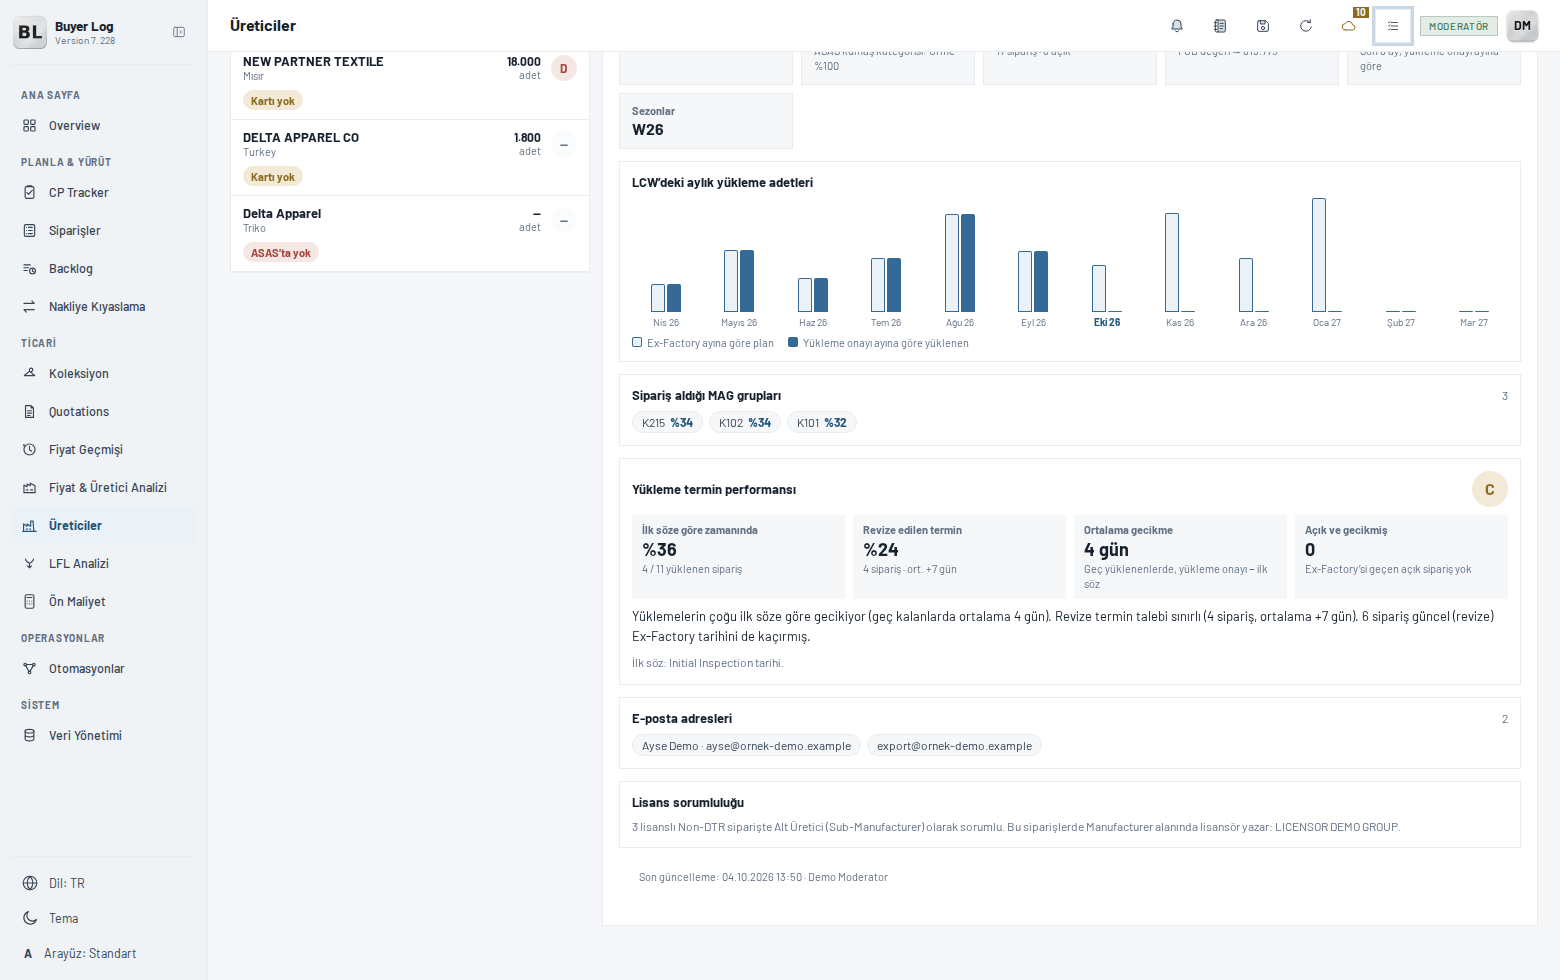
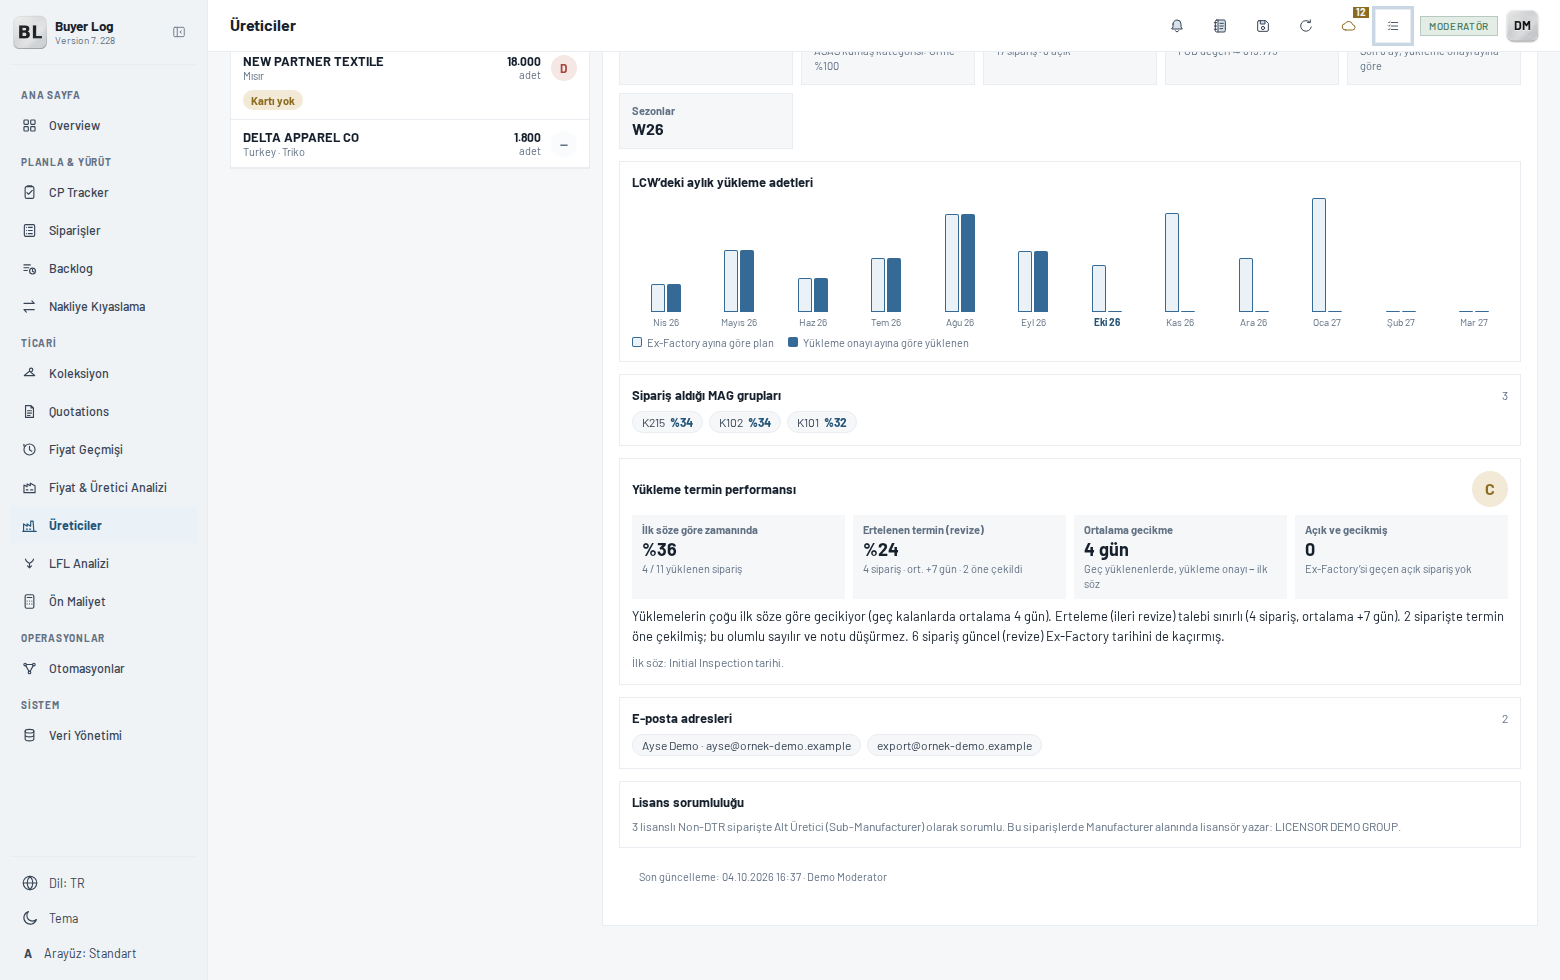
Termin performansı: Initial Inspection Geçme Tarih bağlantısı, öne çekme cezasız
- ASAS kataloğundaki ilk söz alanı modeldeki gerçek adla eşlenir
  ("Initial Inspection Geçme Tarih"; Ay/Hafta türevleri yerine tarih sütunu).
  Mevcut ASAS bağlantılarına bir kez şema taramasıyla eklenir; şema
  okunamazsa yenileme durmaz.
- Yalnız ileri kayma (erteleme) revize sayılır; öne çekme ayrıca gösterilir
  ve notu düşürmez.

Claude-Session: https://claude.ai/code/session_01XoVDSom36jpCsbHqN3KyRa

diff --git a/resources/app/public/manufacturers.js b/resources/app/public/manufacturers.js
@@ -219,9 +219,10 @@
     }
     if (perf.revisionRate != null && perf.revised) {
       parts.push(perf.revisionRate >= 0.3
-        ? T(`Siparişlerin ${pct(perf.revisionRate)}’inde termin revize edilmiş (ortalama +${perf.avgRevisionDays} gün): doğrudan gecikme olmasa da ilk söze sadakat düşük.`, `${pct(perf.revisionRate)} of orders had their date revised (+${perf.avgRevisionDays} days on average): even without direct delay, the first promise is often not kept.`)
-        : T(`Revize termin talebi sınırlı (${perf.revised} sipariş, ortalama +${perf.avgRevisionDays} gün).`, `Revised date requests are limited (${perf.revised} orders, +${perf.avgRevisionDays} days on average).`));
+        ? T(`Siparişlerin ${pct(perf.revisionRate)}’inde termin ileri revize edilmiş, yani ertelenmiş (ortalama +${perf.avgRevisionDays} gün): doğrudan gecikme olmasa da ilk söze sadakat düşük.`, `${pct(perf.revisionRate)} of orders had their date revised (+${perf.avgRevisionDays} days on average): even without direct delay, the first promise is often not kept.`)
+        : T(`Erteleme (ileri revize) talebi sınırlı (${perf.revised} sipariş, ortalama +${perf.avgRevisionDays} gün).`, `Revised date requests are limited (${perf.revised} orders, +${perf.avgRevisionDays} days on average).`));
     }
+    if (perf.pulledForward) parts.push(T(`${perf.pulledForward} siparişte termin öne çekilmiş; bu olumlu sayılır ve notu düşürmez.`, `${perf.pulledForward} orders had their date pulled forward; this counts as positive and does not lower the grade.`));
     if (perf.lateVsExFactory) parts.push(T(`${perf.lateVsExFactory} sipariş güncel (revize) Ex-Factory tarihini de kaçırmış.`, `${perf.lateVsExFactory} orders also missed the current (revised) Ex-Factory date.`));
     if (perf.openOverdue) parts.push(T(`${perf.openOverdue} açık siparişin Ex-Factory tarihi geçti ve yükleme onayı yok (ortalama ${perf.avgOpenOverdueDays} gün).`, `${perf.openOverdue} open orders are past Ex-Factory with no loading approval (${perf.avgOpenOverdueDays} days on average).`));
     return parts.join(' ');
@@ -237,7 +238,7 @@
       <div class="mfpPanelHead"><strong>${esc(T('Yükleme termin performansı', 'Shipment delivery performance'))}</strong>${gradeBadge(perf, true)}</div>
       <div class="mfpMetrics">
         ${metric(T('İlk söze göre zamanında', 'On time vs first promise'), esc(pct(perf.onTimeRate)), T(`${nf(perf.onTime)} / ${nf(perf.loaded)} yüklenen sipariş`, `${nf(perf.onTime)} / ${nf(perf.loaded)} shipped orders`))}
-        ${metric(T('Revize edilen termin', 'Revised dates'), esc(pct(perf.revisionRate)), perf.revised ? T(`${nf(perf.revised)} sipariş · ort. +${perf.avgRevisionDays} gün`, `${nf(perf.revised)} orders · avg +${perf.avgRevisionDays} days`) : T('Revize yok', 'No revisions'))}
+        ${metric(T('Ertelenen termin (revize)', 'Postponed dates (revised)'), esc(pct(perf.revisionRate)), [perf.revised ? T(`${nf(perf.revised)} sipariş · ort. +${perf.avgRevisionDays} gün`, `${nf(perf.revised)} orders · avg +${perf.avgRevisionDays} days`) : T('Erteleme yok', 'No postponements'), perf.pulledForward ? T(`${nf(perf.pulledForward)} öne çekildi`, `${nf(perf.pulledForward)} pulled forward`) : ''].filter(Boolean).join(' · '))}
         ${metric(T('Ortalama gecikme', 'Average delay'), perf.avgDelayDays ? esc(T(`${perf.avgDelayDays} gün`, `${perf.avgDelayDays} days`)) : '—', T('Geç yüklenenlerde, yükleme onayı − ilk söz', 'For late shipments, loading approval − first promise'))}
         ${metric(T('Açık ve gecikmiş', 'Open and overdue'), esc(nf(perf.openOverdue)), perf.openOverdue ? T(`ort. ${perf.avgOpenOverdueDays} gün`, `avg ${perf.avgOpenOverdueDays} days`) : T('Ex-Factory’si geçen açık sipariş yok', 'No open order past Ex-Factory'))}
       </div>

diff --git a/resources/app/server/lib/model-refresh.js b/resources/app/server/lib/model-refresh.js
@@ -331,11 +331,17 @@ async function ensureConnectionMapping(item, options = {}) {
   // alanı bulursak mevcut eşlemeye ekler ve kalıcı bağlantıya kaydederiz.
   const enhancementFields = role === 'asas' ? ['Teknik Resim', 'Ürün Tanım'] : [];
   const mappingEnhancementScanVersion = Math.max(0, Number(item && item.mappingEnhancementScanVersion) || 0);
-  const missingEnhancements = mappingEnhancementScanVersion < 1
-    ? enhancementFields.filter(header => !normalized.mapping[header]) : [];
+  // v3: üretici kartı termin performansı için Initial Inspection Geçme Tarih
+  // (ilk ex-factory sözü) mevcut ASAS bağlantılarına bir kez taranıp eklenir.
+  const INITIAL_INSPECTION = 'Initial Inspection Geçme Tarih';
+  const missingEnhancements = (mappingEnhancementScanVersion < 1
+    ? enhancementFields.filter(header => !normalized.mapping[header]) : [])
+    .concat(role === 'asas' && mappingEnhancementScanVersion < 3 && !normalized.mapping[INITIAL_INSPECTION] ? [INITIAL_INSPECTION] : []);
   const productDescriptionRepairNeeded = role === 'asas' && modelFields.productDescriptionNeedsRepair(normalized.mapping);
   const brokenManualQuery = item && item.mode === 'manual' && /\[object Object\]/i.test(String(item.query || ''));
   const needsRepair = normalized.invalidHeaders.length > 0 || missingBefore.length > 0 || missingEnhancements.length > 0 || productDescriptionRepairNeeded || brokenManualQuery;
+  const softEnhancementOnly = needsRepair && !normalized.invalidHeaders.length && !missingBefore.length && !productDescriptionRepairNeeded && !brokenManualQuery
+    && missingEnhancements.every(header => header === INITIAL_INSPECTION);
 
   // Eşleme "eksiksiz" olsa bile kimlik alanları yanlış sütuna bağlanmış olabilir;
   // bu durumda sorgu sorunsuz çalışır ama hiçbir satır birebir eşleşmez.
@@ -376,6 +382,14 @@ async function ensureConnectionMapping(item, options = {}) {
     }, options.queryOptions || {});
   } catch (err) {
     if (telemetry) telemetry({ type:'end', category:'query', connection:connectionLabel(item), operation:'schema-discovery', timestampMs:Date.now(), durationMs:Date.now() - schemaStartedMs, error:String(err && err.message || err) });
+    /* Yalnız isteğe bağlı Initial Inspection taraması için şema okunamadıysa
+       yenileme DURMAZ: eşleme olduğu gibi kullanılır, tarama bir daha denenmez
+       (alan Veri Yönetimi'nden elle eşlenebilir). */
+    if (softEnhancementOnly) {
+      item.mapping = normalized.mapping;
+      item.mappingEnhancementScanVersion = Math.max(3, Number(item.mappingEnhancementScanVersion) || 0);
+      return { repaired: false, mapping: item.mapping, warnings: suspectWarnings };
+    }
     throw new ModelRefreshError(
       `${connectionLabel(item)} alan eşlemesi bozuk veya eksik ve model şeması otomatik okunamadı: ${String(err && err.message || err)}`,
       'MODEL_REFRESH_MAPPING_REPAIR_FAILED', 502,
@@ -399,7 +413,8 @@ async function ensureConnectionMapping(item, options = {}) {
   item.mapping = repairedMapping;
   const productDescriptionRepaired = productDescriptionRepairNeeded
     && modelFields.fieldKey(repairedMapping['Ürün Tanım'] && repairedMapping['Ürün Tanım'].name) === modelFields.fieldKey('Ürün Ana Tanım');
-  if (missingEnhancements.length) item.mappingEnhancementScanVersion = 1;
+  if (missingEnhancements.length) item.mappingEnhancementScanVersion = Math.max(1, Number(item.mappingEnhancementScanVersion) || 0);
+  if (missingEnhancements.includes(INITIAL_INSPECTION)) item.mappingEnhancementScanVersion = Math.max(3, Number(item.mappingEnhancementScanVersion) || 0);
   if (productDescriptionRepaired) item.mappingEnhancementScanVersion = Math.max(2, Number(item.mappingEnhancementScanVersion) || 0);
   if (brokenManualQuery) {
     item.mode = 'auto';

diff --git a/resources/app/public/manufacturer-cards-engine.js b/resources/app/public/manufacturer-cards-engine.js
@@ -218,8 +218,14 @@
     const approval = dayValue(pick(row, KEYS.loadingApproval));
     const initial = inspection != null ? inspection : (asasEx != null ? asasEx : null);
     const baseline = inspection != null ? 'initialInspection' : (asasEx != null ? 'asasExFactory' : '');
-    const out = { initial, exFactory, approval, baseline, revised: false, revisionDays: 0, delayDays: null, delayVsExFactory: null, openOverdueDays: null };
-    if (initial != null && exFactory != null && exFactory !== initial) { out.revised = true; out.revisionDays = Math.round((exFactory - initial) / DAY); }
+    const out = { initial, exFactory, approval, baseline, revised: false, pulledForward: false, revisionDays: 0, delayDays: null, delayVsExFactory: null, openOverdueDays: null };
+    /* Yalnız İLERİ kayma (onaylanmış erteleme talebi) revize sayılır. Tarihin
+       öne çekilmesi üreticinin erken yükleme sözüdür; cezalandırılmaz, ayrıca
+       sayılır (kullanıcı kararı). */
+    if (initial != null && exFactory != null && exFactory !== initial) {
+      out.revisionDays = Math.round((exFactory - initial) / DAY);
+      if (out.revisionDays > 0) out.revised = true; else out.pulledForward = true;
+    }
     if (approval != null) {
       if (initial != null) out.delayDays = Math.round((approval - initial) / DAY);
       if (exFactory != null) out.delayVsExFactory = Math.round((approval - exFactory) / DAY);
@@ -229,13 +235,14 @@
     return out;
   }
   function emptyPerformance() {
-    return { measured: 0, revised: 0, revisionDaysTotal: 0, loaded: 0, onTime: 0, delayDaysTotal: 0, lateVsExFactory: 0, openOverdue: 0, openOverdueDaysTotal: 0, baselines: { initialInspection: 0, asasExFactory: 0 } };
+    return { measured: 0, revised: 0, pulledForward: 0, revisionDaysTotal: 0, loaded: 0, onTime: 0, delayDaysTotal: 0, lateVsExFactory: 0, openOverdue: 0, openOverdueDaysTotal: 0, baselines: { initialInspection: 0, asasExFactory: 0 } };
   }
   function addPerformance(perf, delivery) {
     if (delivery.initial != null) {
       perf.measured += 1;
       perf.baselines[delivery.baseline] = (perf.baselines[delivery.baseline] || 0) + 1;
-      if (delivery.revised) { perf.revised += 1; perf.revisionDaysTotal += Math.max(0, delivery.revisionDays); }
+      if (delivery.revised) { perf.revised += 1; perf.revisionDaysTotal += delivery.revisionDays; }
+      if (delivery.pulledForward) perf.pulledForward += 1;
     }
     if (delivery.delayDays != null) {
       perf.loaded += 1;
@@ -251,7 +258,7 @@
     const revisionRate = ratio(perf.revised, perf.measured);
     const lateCount = perf.loaded - perf.onTime;
     const out = {
-      measured: perf.measured, revised: perf.revised, loaded: perf.loaded, onTime: perf.onTime,
+      measured: perf.measured, revised: perf.revised, pulledForward: perf.pulledForward, loaded: perf.loaded, onTime: perf.onTime,
       lateVsExFactory: perf.lateVsExFactory, openOverdue: perf.openOverdue,
       onTimeRate, revisionRate,
       avgRevisionDays: perf.revised ? Math.round(perf.revisionDaysTotal / perf.revised) : 0,

diff --git a/resources/app/tests/manufacturers-page-v20261004.test.js b/resources/app/tests/manufacturers-page-v20261004.test.js
@@ -89,3 +89,21 @@ test('store keeps aliases, creates ASAS cards without overwriting and links with
     fs.rmSync(root, { recursive: true, force: true });
   }
 });
+
+test('existing ASAS connections pick up Initial Inspection Geçme Tarih once, without breaking refresh', async () => {
+  const modelFields = require('../server/lib/model-fields');
+  const { ensureConnectionMapping } = require('../server/lib/model-refresh');
+  const required = modelFields.fieldsForRole('asas').filter(field => field.required);
+  const base = () => Object.fromEntries(required.map(field => [field.header, { table: 'ASAS', name: field.header, kind: 'column' }]));
+  const columns = [...required.map(field => field.header), 'Ürün Tanım', 'Initial Inspection Geçme Merch Ay', 'Initial Inspection Geçme Merch Hafta', 'Initial Inspection Geçme Tarih', 'Initial Inspection Geçme Tarih Gün Ay Yıl']
+    .map(name => ({ table: 'ASAS', name, kind: 'column' }));
+  const item = { role: 'asas', name: 'ASAS', server: 'db', catalog: 'c', mapping: { ...base(), 'Ürün Tanım': { table: 'ASAS', name: 'Ürün Tanım', kind: 'column' } }, mappingEnhancementScanVersion: 2, horizon: { table: 'ASAS' } };
+  const result = await ensureConnectionMapping(item, { discoverSchema: async () => ({ columns, measures: [] }) });
+  assert.equal(result.mapping['Initial Inspection Geçme Tarih'].name, 'Initial Inspection Geçme Tarih');
+  assert.equal(item.mappingEnhancementScanVersion, 3);
+  // Şema okunamazsa yenileme durmaz ve tarama tekrar denenmez.
+  const offline = { role: 'asas', name: 'ASAS', server: 'db', catalog: 'c', mapping: { ...base(), 'Ürün Tanım': { table: 'ASAS', name: 'Ürün Ana Tanım', kind: 'column' } }, mappingEnhancementScanVersion: 2, horizon: { table: 'ASAS' } };
+  const soft = await ensureConnectionMapping(offline, { discoverSchema: async () => { throw new Error('offline'); } });
+  assert.equal(soft.repaired, false);
+  assert.equal(offline.mappingEnhancementScanVersion, 3);
+});

diff --git a/resources/app/tests/manufacturer-cards-engine.test.js b/resources/app/tests/manufacturer-cards-engine.test.js
@@ -116,3 +116,18 @@ test('automation split routes each order to its responsible manufacturer card', 
   assert.equal(engine.isManufacturerField('Manufacturer'), true);
   assert.equal(engine.isManufacturerField('Sub-Manufacturer'), false);
 });
+
+test('a date pulled forward is not a revision and does not lower the grade', () => {
+  const today = Date.UTC(2026, 5, 1);
+  const forward = engine.rowDelivery({ _isActive: false, 'Initial Inspection': '2026-01-15', 'Ex-factory': '2026-01-10', 'Buying Son Onay Tarihi': '2026-01-10' }, today);
+  assert.equal(forward.revised, false);
+  assert.equal(forward.pulledForward, true);
+  assert.equal(forward.revisionDays, -5);
+  const rows = [1, 2, 3].map(i => ({ Manufacturer: 'F', 'Order Code': `F${i}`, 'Order Quantity': 10, _isActive: false,
+    'Initial Inspection': '2026-01-15', 'Ex-factory': '2026-01-10', 'Buying Son Onay Tarihi': '2026-01-10' }));
+  const perf = engine.buildCards(rows, [], { today: '2026-06-01' }).cards[0].performance;
+  assert.equal(perf.revised, 0);
+  assert.equal(perf.pulledForward, 3);
+  assert.equal(perf.revisionRate, 0);
+  assert.equal(perf.grade, 'A');
+});

diff --git a/resources/app/server/lib/model-fields.js b/resources/app/server/lib/model-fields.js
@@ -62,7 +62,10 @@ const FIELD_CATALOGUE = {
     // v7.0.229 — Üretici kartı termin performansı: PO açılırken verilen ilk
     // ex-factory sözü. İsteğe bağlıdır; eşlenmezse ASAS'ın ilk ex-factory
     // değeri temel alınır.
-    { header: 'Initial Inspection Tarih', aliases: ['INITIAL INSPECTION', 'INITIAL INSPECTION DATE', 'INITIAL INSPECTION TARIHI', 'ILK INSPECTION TARIHI'] },
+    // ASAS modelindeki gerçek ad "Initial Inspection Geçme Tarih"tir (CP'de
+    // "Original Ex-F."). Ay/Hafta türevleri aynı öneki taşır; birebir ad önce
+    // eşlendiği için tarih sütunu seçilir.
+    { header: 'Initial Inspection Geçme Tarih', aliases: ['INITIAL INSPECTION GECME TARIH', 'INITIAL INSPECTION DATE', 'INITIAL INSPECTION TARIHI'] },
     { header: 'Buyer', aliases: ['SATIN ALMACI'] },
     { header: 'Line', aliases: ['URUN GRUBU', 'PRODUCT LINE'] },
     // Kumaş bilgileri artık ayrı bir Fabric bağlantısından değil aynı ASAS sorgusundan

diff --git a/resources/app/server/lib/parse.js b/resources/app/server/lib/parse.js
@@ -1028,8 +1028,8 @@ function parseASASMatrix(rows, ruleValue) {
     ['Buying Son Onay Tarihi'],
     [['BUYING','SON','ONAY','TARIH'], ['BUYING','APPROVAL','DATE'], ['SON','ONAY','TARIH']]);
   const initialInspectionHeader = resolveHeader(
-    ['Initial Inspection Tarih', 'Initial Inspection Tarihi', 'Initial Inspection'],
-    [['INITIAL','INSPECTION'], ['ILK','INSPECTION'], ['INITIAL','INSPEKSIYON']]);
+    ['Initial Inspection Geçme Tarih', 'Initial Inspection Tarih', 'Initial Inspection Tarihi', 'Initial Inspection'],
+    [['INITIAL','INSPECTION','GECME','TARIH'], ['INITIAL','INSPECTION','TARIH'], ['INITIAL','INSPECTION','DATE']]);
   const technicalImageHeader = resolveHeader(
     ['Teknik Görsel', 'Teknik Resim'],
     [['TEKNIK','GORSEL'], ['TEKNIK','RESIM'], ['TECHNICAL','IMAGE'], ['TECHNICAL','PICTURE']]);

diff --git a/resources/app/tests/lfl-product-description-asas-v828.test.js b/resources/app/tests/lfl-product-description-asas-v828.test.js
@@ -67,5 +67,6 @@ test('mevcut eski ASAS mappingi schema onarımında Ürün Ana Tanım kaynağın
     discoverSchema: async () => ({ columns: schemaNames.map(name => ({ table: 'ASAS', name, kind: 'column' })), measures: [] }),
   });
   assert.equal(result.mapping['Ürün Tanım'].name, 'Ürün Ana Tanım');
-  assert.equal(item.mappingEnhancementScanVersion, 2);
+  // v7.0.229: aynı onarım geçişinde Initial Inspection taraması da yapılır (sürüm 3).
+  assert.equal(item.mappingEnhancementScanVersion, 3);
 });
